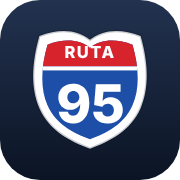
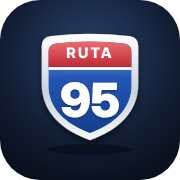
Escudo nuevo, hoja de ajustes con tema, estilo, descuentos y fuentes, y precios cada hora
Claude-Session: https://claude.ai/code/session_015pEM4yLcYnddjWopknXEqy

diff --git a/index.html b/index.html
@@ -17,17 +17,39 @@
 <link href="https://fonts.googleapis.com/css2?family=Inter:wght@400;500;600;700;800&family=Barlow:wght@400;500;600;700&family=Barlow+Condensed:wght@600;700&family=IBM+Plex+Mono:wght@600;700&display=swap" rel="stylesheet">
 <link rel="stylesheet" href="https://cdnjs.cloudflare.com/ajax/libs/leaflet/1.9.4/leaflet.min.css">
 <script>try{var d=JSON.parse(localStorage.getItem("ruta95")||"{}");if(d.skin)document.documentElement.dataset.skin=d.skin;if(d.theme)document.documentElement.dataset.theme=d.theme}catch(e){}</script>
-<link rel="stylesheet" href="app.css?v=20">
+<link rel="stylesheet" href="app.css?v=21">
 </head>
 <body>
 <main class="wrap">
 
   <header class="top">
-    <svg class="logo" viewBox="0 0 100 100" aria-hidden="true"><defs><clipPath id="sh-h"><path d="M10 9C26 3 40 4 50 12C60 4 74 3 90 9C96 30 97 50 90 66C82 84 66 92 50 98C34 92 18 84 10 66C3 50 4 30 10 9Z" transform="translate(50 52) scale(.84) translate(-50 -52)"/></clipPath></defs><path d="M10 9C26 3 40 4 50 12C60 4 74 3 90 9C96 30 97 50 90 66C82 84 66 92 50 98C34 92 18 84 10 66C3 50 4 30 10 9Z" fill="#fff" stroke="#0B1424" stroke-opacity=".22" stroke-width="2"/><g clip-path="url(#sh-h)"><rect width="100" height="100" fill="#1D4FA8"/><rect width="100" height="33" fill="#D7232C"/><rect y="33" width="100" height="3.2" fill="#fff"/></g><text x="50" y="26.5" text-anchor="middle" font-family="-apple-system, BlinkMacSystemFont, SF Pro Display, Inter, Arial, sans-serif" font-weight="800" font-size="13" letter-spacing="1.2" fill="#fff">RUTA</text><text x="50" y="78" text-anchor="middle" font-family="-apple-system, BlinkMacSystemFont, SF Pro Display, Inter, Arial, sans-serif" font-weight="800" font-size="42" letter-spacing="-1" fill="#fff">95</text></svg>
+    <svg class="logo" viewBox="0 0 100 100" aria-hidden="true"><defs>
+ <linearGradient id="lgrim" x1="0" y1="0" x2="0" y2="1"><stop offset="0" stop-color="#FFFFFF"/><stop offset=".55" stop-color="#C9D2DC"/><stop offset="1" stop-color="#F7F9FB"/></linearGradient>
+ <linearGradient id="lgblue" x1="0" y1="0" x2="0" y2="1"><stop offset="0" stop-color="#2F6BD6"/><stop offset="1" stop-color="#123A86"/></linearGradient>
+ <linearGradient id="lgred" x1="0" y1="0" x2="0" y2="1"><stop offset="0" stop-color="#F4474B"/><stop offset="1" stop-color="#B5121D"/></linearGradient>
+ <linearGradient id="lggl" x1="0" y1="0" x2="0" y2="1"><stop offset="0" stop-color="#fff" stop-opacity=".34"/><stop offset="1" stop-color="#fff" stop-opacity="0"/></linearGradient>
+ <clipPath id="lgc"><path d="M15 5.5Q50 1.5 85 5.5Q93 6.5 93 14.5V48C93 73 75 89 50 98C25 89 7 73 7 48V14.5Q7 6.5 15 5.5Z" transform="translate(50 52) scale(.86) translate(-50 -52)"/></clipPath>
+ <filter id="lgsh" x="-30%" y="-30%" width="160%" height="170%"><feDropShadow dx="0" dy="3" stdDeviation="1.6" flood-color="#000" flood-opacity="0.35"/></filter>
+ <filter id="lgts"><feDropShadow dx="0" dy="1" stdDeviation=".8" flood-color="#06183F" flood-opacity=".45"/></filter>
+</defs>
+<g transform="translate(4 1) scale(0.92)">
+ <path d="M15 5.5Q50 1.5 85 5.5Q93 6.5 93 14.5V48C93 73 75 89 50 98C25 89 7 73 7 48V14.5Q7 6.5 15 5.5Z" fill="url(#lgrim)" filter="url(#lgsh)"/>
+ <path d="M15 5.5Q50 1.5 85 5.5Q93 6.5 93 14.5V48C93 73 75 89 50 98C25 89 7 73 7 48V14.5Q7 6.5 15 5.5Z" fill="none" stroke="#000" stroke-opacity=".12" stroke-width=".6"/>
+ <g clip-path="url(#lgc)">
+  <rect width="100" height="100" fill="url(#lgblue)"/>
+  <rect width="100" height="33" fill="url(#lgred)"/>
+  <rect y="33" width="100" height="2.6" fill="#fff"/>
+  <path d="M0 0H100V44C70 38 30 38 0 46Z" fill="url(#lggl)"/>
+ </g>
+ 
+ <text x="50" y="25.2" text-anchor="middle" font-family="Inter Display, Inter, -apple-system, BlinkMacSystemFont, Arial, sans-serif" font-weight="800" font-size="13" letter-spacing="2" fill="#fff">RUTA</text>
+ <text class="n95" x="50" y="77" text-anchor="middle" font-family="Inter Display, Inter, -apple-system, BlinkMacSystemFont, Arial, sans-serif" font-weight="900" font-size="42" fill="#fff" filter="url(#lgts)">95</text>
+</g></svg>
     <div>
       <h1>Ruta 95</h1>
       <p>Dónde repostar en tu ruta</p>
     </div>
+    <button type="button" class="themebtn" id="btn-settings" aria-label="Ajustes" title="Ajustes"><svg viewBox="0 0 24 24" aria-hidden="true"><path d="M12 15.2a3.2 3.2 0 1 0 0-6.4 3.2 3.2 0 0 0 0 6.4z" fill="none" stroke="currentColor" stroke-width="2"/><path d="M19.4 13.5a7.6 7.6 0 0 0 0-3l2-1.6-2-3.4-2.4 1a7.5 7.5 0 0 0-2.6-1.5L14 2.5h-4l-.4 2.5A7.5 7.5 0 0 0 7 6.5l-2.4-1-2 3.4 2 1.6a7.6 7.6 0 0 0 0 3l-2 1.6 2 3.4 2.4-1a7.5 7.5 0 0 0 2.6 1.5l.4 2.5h4l.4-2.5a7.5 7.5 0 0 0 2.6-1.5l2.4 1 2-3.4z" fill="none" stroke="currentColor" stroke-width="1.8" stroke-linejoin="round"/></svg></button>
     <button type="button" class="themebtn" id="btn-theme" aria-label="Cambiar a modo oscuro" title="Modo claro u oscuro"></button>
   </header>
 
@@ -72,14 +94,6 @@
       </div>
     </div>
     <label class="check"><input type="checkbox" id="peajes"> Evitar peajes</label>
-    <section class="card how">
-      <h2>Cómo funciona</h2>
-      <ol>
-        <li>Dime de dónde a dónde vas y elige el camino en el mapa.</li>
-        <li>Cuéntame cómo es tu coche y cuánto llevas en el depósito.</li>
-        <li>Te digo en qué kilómetro parar, cuánto ahorras y cuánto te desvías.</li>
-      </ol>
-    </section>
   </section>
 
   <!-- Panel 2: Camino -->
@@ -151,21 +165,6 @@
         <p class="hint" id="umbral-out"></p>
         <p class="carsum" id="car-sum"></p>
         <button type="button" class="linkbtn" id="btn-editcar" hidden>Cambiar coche y preferencias</button>
-        <details class="adv">
-          <summary>Descuentos y ajustes</summary>
-          <div class="rows-set" id="discounts"></div>
-          <div class="rows-set">
-            <div class="numfield"><label for="tiempo">Mi tiempo vale</label><div class="unit"><input id="tiempo" type="number" inputmode="numeric" step="1" min="0" max="60" value="6"><span>€/h</span></div></div>
-            <div class="numfield"><label for="margen">En carretera gasto</label><div class="unit"><input id="margen" type="number" inputmode="numeric" step="5" min="0" max="50" value="10"><span>% más</span></div></div>
-          </div>
-          <p class="hint">Descuentos en céntimos por litro de tu tarjeta o app. El valor del tiempo ordena las paradas; el margen hace más prudente la autonomía.</p>
-          <div class="skins" id="skins" role="group" aria-label="Aspecto">Aspecto
-            <button type="button" data-skin-btn="">Moderno</button>
-            <button type="button" data-skin-btn="senal">Señal</button>
-            <button type="button" data-skin-btn="asfalto">Asfalto</button>
-            <button type="button" data-skin-btn="ticket">Ticket</button>
-          </div>
-        </details>
       </section>
     </div>
   </section>
@@ -191,11 +190,36 @@
     </div>
   </section>
 
-  <footer class="foot">
-    <p id="data-date"></p>
-    <p>Precios: Geoportal de Gasolineras, Ministerio para la Transición Ecológica. Rutas y mapas: OSRM y OpenStreetMap. Los precios pueden cambiar durante el día.</p>
-  </footer>
 </main>
+
+
+<div class="sheet" id="sheet" hidden>
+  <div class="sheet-bg" data-close></div>
+  <section class="sheet-panel" role="dialog" aria-modal="true" aria-labelledby="sheet-t">
+    <div class="grab" aria-hidden="true"></div>
+    <div class="sheet-head"><h2 id="sheet-t">Ajustes</h2><button type="button" class="sheet-done" data-close>Listo</button></div>
+    <div class="group"><h3>Apariencia</h3><div class="gbox">
+      <div class="grow"><span>Tema</span><div class="seg" id="theme-seg" role="radiogroup" aria-label="Tema"><button type="button" data-th="">Auto</button><button type="button" data-th="light">Claro</button><button type="button" data-th="dark">Oscuro</button></div></div>
+      <div class="grow col"><span>Estilo</span><div class="skins" id="skins" role="group" aria-label="Aspecto">
+            <button type="button" data-skin-btn="">Moderno</button>
+            <button type="button" data-skin-btn="senal">Señal</button>
+            <button type="button" data-skin-btn="asfalto">Asfalto</button>
+            <button type="button" data-skin-btn="ticket">Ticket</button>
+          </div></div>
+    </div></div>
+    <div class="group"><h3>Descuentos en céntimos por litro</h3><div class="gbox"><div class="rows-set" id="discounts"></div></div><p class="gnote">De tu tarjeta o app de la gasolinera. Se restan al precio al comparar.</p></div>
+    <div class="group"><h3>Cálculo</h3><div class="gbox"><div class="rows-set">
+            <div class="numfield"><label for="tiempo">Mi tiempo vale</label><div class="unit"><input id="tiempo" type="number" inputmode="numeric" step="1" min="0" max="60" value="6"><span>€/h</span></div></div>
+            <div class="numfield"><label for="margen">En carretera gasto</label><div class="unit"><input id="margen" type="number" inputmode="numeric" step="5" min="0" max="50" value="10"><span>% más</span></div></div>
+          </div></div><p class="gnote">El valor de tu tiempo pesa los desvíos; el margen hace más prudente la autonomía.</p></div>
+    <div class="group"><h3>Precios</h3><div class="gbox gtext"><p id="data-date">Cargando…</p><p>Se actualizan cada hora desde el Geoportal de Gasolineras del Ministerio para la Transición Ecológica. Cada gasolinera puede cambiar su precio durante el día.</p><p>Rutas: OSRM. Mapas y restaurantes: OpenStreetMap.</p></div></div>
+    <div class="group"><h3>Cómo funciona</h3><div class="gbox gtext"><ol>
+        <li>Dime de dónde a dónde vas y elige el camino en el mapa.</li>
+        <li>Cuéntame cómo es tu coche y cuánto llevas en el depósito.</li>
+        <li>Te digo en qué kilómetro parar, cuánto ahorras y cuánto te desvías.</li>
+      </ol></div></div>
+  </section>
+</div>
 
 <nav class="bar" aria-label="Navegación">
   <p class="status" id="status" role="status" aria-live="polite"></p>
@@ -207,6 +231,6 @@
 
 <script src="https://cdnjs.cloudflare.com/ajax/libs/leaflet/1.9.4/leaflet.min.js"></script>
 <script src="https://cdnjs.cloudflare.com/ajax/libs/three.js/r128/three.min.js"></script>
-<script src="app.js?v=20"></script>
+<script src="app.js?v=21"></script>
 </body>
 </html>

diff --git a/app.css b/app.css
@@ -560,3 +560,43 @@ html:not([data-skin]) .map, html:not([data-skin]) #map, html:not([data-skin]) .t
 html:not([data-skin]) .note { border-radius: 14px; }
 html:not([data-skin]) .sugg { border: 0; border-radius: 14px; box-shadow: 0 10px 30px rgba(0,0,0,.14); }
 html:not([data-skin]) .sugg li:hover { background: var(--fill); }
+
+/* Hoja de ajustes */
+.top .themebtn + .themebtn { margin-left: -4px; }
+.top > div { flex: 1; min-width: 0; }
+.sheet { position: fixed; inset: 0; z-index: 3000; display: flex; align-items: flex-end; justify-content: center; }
+.sheet-bg { position: absolute; inset: 0; background: rgba(0,0,0,.38); }
+.sheet-panel { position: relative; width: 100%; max-width: 600px; max-height: 90vh; overflow-y: auto; overscroll-behavior: contain; background: var(--bg); color: var(--ink); border-radius: 22px 22px 0 0; padding: 8px 16px calc(28px + env(safe-area-inset-bottom)); display: flex; flex-direction: column; gap: 22px; }
+.grab { width: 38px; height: 5px; border-radius: 3px; background: var(--line); margin: 0 auto; flex: none; }
+.sheet-head { display: flex; align-items: center; justify-content: space-between; margin-top: -8px; }
+.sheet-head h2 { font: 700 22px var(--f-body); letter-spacing: -.01em; }
+.sheet-done { border: 0; background: transparent; color: var(--blue); font-weight: 700; font-size: 17px; min-height: 44px; padding: 0 4px; }
+.group h3 { font: 500 13px var(--f-body); color: var(--muted); margin: 0 0 6px 16px; text-transform: none; letter-spacing: 0; }
+.gbox { background: var(--surface); border-radius: 14px; padding: 2px 16px; }
+.gnote { font-size: 13px; color: var(--muted); margin: 6px 16px 0; }
+.grow { display: flex; align-items: center; justify-content: space-between; gap: 12px; min-height: 52px; padding: 6px 0; border-top: .5px solid var(--line); }
+.grow:first-child { border-top: 0; }
+.grow.col { flex-direction: column; align-items: stretch; gap: 8px; padding: 12px 0; }
+.grow > span { font-size: 16px; }
+.seg { display: grid; grid-template-columns: repeat(3, auto); background: var(--fill, var(--bg)); border-radius: 9px; padding: 2px; }
+.seg button { border: 0; background: transparent; border-radius: 7px; height: 32px; padding: 0 12px; font-size: 14px; font-weight: 600; }
+.seg button[aria-checked="true"] { background: var(--surface); box-shadow: 0 2px 6px rgba(0,0,0,.14); }
+.gbox .skins { padding: 0; font-size: 0; }
+.gbox .rows-set .numfield { min-height: 52px; border-top: .5px solid var(--line); }
+.gbox .rows-set .numfield:first-child { border-top: 0; }
+.gbox .rows-set .numfield label { font-size: 16px; }
+.gtext { padding: 12px 16px; display: flex; flex-direction: column; gap: 8px; font-size: 15px; color: var(--muted); }
+.gtext #data-date { color: var(--ink); font-weight: 600; }
+.gtext ol { margin: 0; padding-left: 20px; display: flex; flex-direction: column; gap: 6px; color: var(--ink); }
+#discounts:empty { display: none; }
+@media (prefers-reduced-motion: no-preference) {
+  .sheet:not([hidden]) .sheet-panel { animation: sheetUp .34s cubic-bezier(.2, .8, .2, 1) both; }
+  .sheet:not([hidden]) .sheet-bg { animation: fadeIn .25s ease both; }
+  .sheet.closing .sheet-panel { animation: sheetDown .22s ease-in both; }
+  .sheet.closing .sheet-bg { animation: fadeIn .22s ease reverse both; }
+}
+@keyframes sheetUp { from { transform: translateY(100%); } }
+@keyframes sheetDown { to { transform: translateY(100%); } }
+@keyframes fadeIn { from { opacity: 0; } }
+body.locked { overflow: hidden; }
+.gbox .rows-set .unit { border-bottom: 0; width: 110px; } .gbox .rows-set .unit input { font-size: 19px; }

diff --git a/app.js b/app.js
@@ -425,7 +425,7 @@ async function loadStations() {
   }
   state.places = [...idx.values()].map((e) => ({ name: e.name, sub: e.sub, lat: median(e.lats), lon: median(e.lons), n: e.lats.length, k: norm(e.name) }));
   const src = snap.live ? 'descargados ahora del Ministerio' : ageH < 1 ? 'copia de hace menos de 1 h' : `copia de hace ${fmt(ageH, 0)} h`;
-  $('data-date').textContent = `Precios del ${snap.fecha} (${src}) · ${fmt(snap.e.length, 0)} estaciones`;
+  $('data-date').textContent = `Precios del ${String(snap.fecha).replace(/:\d\d$/, '').replace(' ', ' a las ')} · ${fmt(snap.e.length, 0)} gasolineras (${src})`;
 }
 
 const geoCache = new Map();
@@ -1683,6 +1683,30 @@ function init() {
     paintSkins(); paintTheme(); save(); state.mapDirty = true;
   });
 
+  // Tema en los ajustes: automático (el del sistema), claro u oscuro
+  const paintThemeSeg = () => { const cur = document.documentElement.dataset.theme || ''; document.querySelectorAll('[data-th]').forEach((b) => b.setAttribute('aria-checked', b.dataset.th === cur)); };
+  $('theme-seg').addEventListener('click', (e) => {
+    const b = e.target.closest('[data-th]'); if (!b) return;
+    const r = document.documentElement;
+    if (r.dataset.skin === 'asfalto' || r.dataset.skin === 'ticket') delete r.dataset.skin;
+    if (b.dataset.th) r.dataset.theme = b.dataset.th; else delete r.dataset.theme;
+    paintTheme(); paintSkins(); paintThemeSeg(); save(); state.mapDirty = true;
+    if (state.panel === 1) renderRoutes();
+  });
+  $('btn-theme').addEventListener('click', paintThemeSeg);
+  $('skins').addEventListener('click', paintThemeSeg);
+  // Hoja de ajustes
+  const sheet = $('sheet');
+  const openSheet = () => { paintThemeSeg(); sheet.hidden = false; sheet.classList.remove('closing'); document.body.classList.add('locked'); sheet.querySelector('.sheet-done').focus({ preventScroll: true }); };
+  const closeSheet = () => {
+    if (sheet.hidden) return;
+    const fin = () => { sheet.hidden = true; sheet.classList.remove('closing'); document.body.classList.remove('locked'); updateGauge(); $('btn-settings').focus({ preventScroll: true }); };
+    if (matchMedia('(prefers-reduced-motion: reduce)').matches) return fin();
+    sheet.classList.add('closing'); setTimeout(fin, 210);
+  };
+  $('btn-settings').addEventListener('click', openSheet);
+  sheet.addEventListener('click', (e) => { if (e.target.closest('[data-close]')) closeSheet(); });
+  document.addEventListener('keydown', (e) => { if (e.key === 'Escape') closeSheet(); });
   $('strip').addEventListener('click', (e) => { if (e.target.closest('#btn-replay')) playTour(); });
   $('t-plan').addEventListener('click', (e) => { const b = e.target.closest('[data-go]'); if (b) { e.preventDefault(); go(+b.dataset.go); } });
   $('tabs').addEventListener('click', (e) => { const b = e.target.closest('[data-tab]'); if (b) showTab(b.dataset.tab); });
